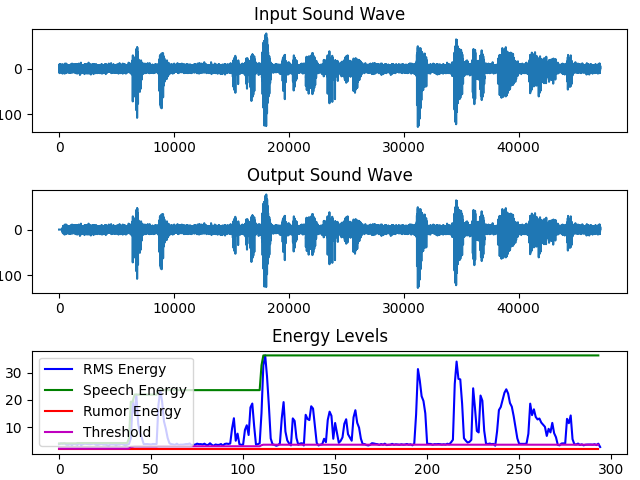
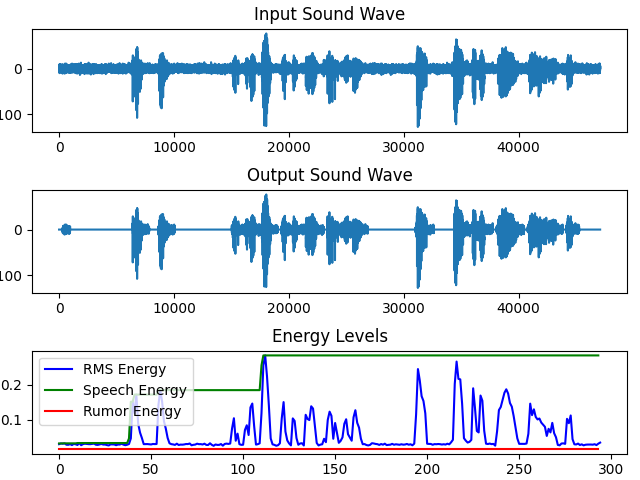
Fix Working VAD

diff --git a/vad.py b/vad.py
@@ -41,7 +41,7 @@ class VAD:
       """
       self.fileIndex = index
       # Input file specs
-      self.inputFileName = "input/inputaudio" + str(index) + ".data"
+      self.inputFileName =  f'input/inputaudio{str(index)}.data'
       # Output file specs
       self.outputFileName = "output/outputVAD" + str(index) + ".data"
       
@@ -49,13 +49,21 @@ class VAD:
       if not os.path.isfile(self.inputFileName):
          sys.exit("Error: "+ self.inputFileName + " file does not exists on the current directory!")
 
+      # save original sound wave
+      with open(self.inputFileName, "rb") as file:
+         self.originalDataByte = bytearray(file.read())
+      
       # read bytes from inputFile
       with open(self.inputFileName, "rb") as file:
          self.inputDataByte = bytearray(file.read())
       
-      # save original sound wave
-      with open(self.inputFileName, "rb") as file:
-         self.originalDataByte = bytearray(file.read())
+      # Normalize input data
+      self.outputDataDec = [] # Working data
+      self.normalizedAudio = [] # Normalized list
+      for sample in self.inputDataByte:
+         self.outputDataDec.append(np.int8(sample))# read signed int8 from byte
+         ret = float(np.int8(sample) / 128)     # normalize
+         self.normalizedAudio.append(ret)
 
       # -------------- VARIABLES  ----------------
 
@@ -63,6 +71,7 @@ class VAD:
       self.PACKET_SIZE = 160
       self.NUM_PACKETS = int(ceil(len(self.inputDataByte) / self.PACKET_SIZE))
 
+      # Util plot lists
       # Root Mean Square Energy = sqrt(1/n * sum with i=[0, n] of x^2(i))
       self.signals_rmse = []
       self.signals_speech_energy = []
@@ -84,19 +93,19 @@ class VAD:
       # count 4 INACTIVE SAMPLES before clipping packet
       self.MAX_INACTIVE_SAMPLES = 4
       self.INACTIVE_SAMPLES = self.MAX_INACTIVE_SAMPLES
- 
+
    # compute Root Mean Square Energy of sample
-   # tested: OK
    def __computeRMSE(self, startIndex):
       energySum = 0
-      # compute sum of energy of packet
+      totalPacket = 0
       for sampleIndex in range(startIndex, startIndex + self.PACKET_SIZE):
-         if sampleIndex < len(self.inputDataByte):
-            energySum += np.int8(self.inputDataByte[sampleIndex]) ** 2
-      rmse = (energySum / self.PACKET_SIZE) ** 0.5
+         if sampleIndex < len(self.normalizedAudio): # check for samples of last packet
+            energySum += self.normalizedAudio[sampleIndex] ** 2
+            totalPacket += 1
+      rmse = (energySum / totalPacket) ** 0.5
       return rmse
 
-   # Threshold = ((1 - lambda) * Emax) + (lambda * Emin)
+   # Threshold = ((1 - lambda) * self.SPEECH_ENERGY) + (lambda * self.RUMOR_ENERGY)
    def __updateThreshold(self):
       tmp = ((1 - self.LAMBDA) * self.SPEECH_ENERGY) + (self.LAMBDA * self.RUMOR_ENERGY)
       if tmp < 0.05:
@@ -114,12 +123,11 @@ class VAD:
    def __increaseRumor(self, index):
       self.RUMOR_ENERGY = self.RUMOR_ENERGY * (1.001 ** index)
 
-   # replace Packet with 0s in self.inputDataByte
-   # tested: OK
+   # replace Packet with 0s in self.normalizedAudio
    def __replacePacket(self, startIndex):
       for index in range(startIndex, startIndex + self.PACKET_SIZE):
-         if index < len(self.inputDataByte):
-            self.inputDataByte[index] = np.int8(0)
+         if index < len(self.outputDataDec):
+            self.outputDataDec[index] = 0
    
    # compute Packet, startIndex = [0, 160, 320, ...]
    def __computePacket(self, startIndex):
@@ -129,7 +137,7 @@ class VAD:
       
       if rmse > self.SPEECH_ENERGY:
          self.SPEECH_ENERGY = rmse
-      elif rmse < self.RUMOR_ENERGY:
+      if rmse < self.RUMOR_ENERGY:
          if rmse == 0:
             self.RUMOR_ENERGY = self.INIT_RUMOR_ENERGY
          else:
@@ -141,7 +149,6 @@ class VAD:
       # save data for plot
       self.signals_speech_energy.append(self.SPEECH_ENERGY)
       self.signals_rumor_energy.append(self.RUMOR_ENERGY)
-      self.signals_threshold.append(self.THRESHOLD)
 
       # if rmse > threshold it is voice, reset inactive_samples count
       if rmse > self.THRESHOLD:
@@ -154,14 +161,14 @@ class VAD:
          # clip
          else:
             self.__replacePacket(startIndex)
-            self.INACTIVE_SAMPLES = self.MAX_INACTIVE_SAMPLES
       
       self.__increaseRumor(ceil(startIndex % self.PACKET_SIZE))
       
    # Create outputVADN.data file where supprex packets are replaced by sequences of zeros of the same length
    def __writeOutput(self):
       print("4) Write output to "+str(self.outputFileName) + "\n")
-      np.array(self.inputDataByte, dtype=np.int8).astype(np.int8).tofile(self.outputFileName)
+      self.outputData = np.array(self.outputDataDec, dtype=np.int8).astype(np.int8)
+      self.outputData.tofile(self.outputFileName)
 
    # plot soundwave and energy levels of input signal
    def __plot(self):
@@ -179,17 +186,17 @@ class VAD:
       plot_a.title.set_text('Input Sound Wave')
 
       # plot output sound wave
-      sig = np.frombuffer(self.inputDataByte, dtype=np.int8)
       plot_b = fig.add_subplot(gs[1,0]) # row 1 col 0
-      plot_b.set_ylabel('energy')
+      sig = np.frombuffer(self.outputData, dtype=np.int8)
       plot_b.plot(sig)
+      plot_b.set_ylabel('energy')
       plot_b.title.set_text('Output Sound Wave')
 
+      # plot Energy levels
       plot_c = fig.add_subplot(gs[2,0]) # row 2 col 0
       plot_c.plot(self.signals_rmse, color="b", label='RMS Energy')
       plot_c.plot(self.signals_speech_energy, color="g", label='Speech Energy')
       plot_c.plot(self.signals_rumor_energy, color="r", label='Rumor Energy')
-      plot_c.plot(self.signals_threshold, color="m", label='Threshold')
       plot_c.legend(loc="upper left")
       plot_c.set_ylabel('energy')
       plot_c.title.set_text('Energy Levels')
@@ -209,7 +216,7 @@ class VAD:
          index (:obj:`int`): `index` specify from which inputaudio<index>.data file to read from input.
       """
       print("1) Analyze file "+str(self.inputFileName) + "\n")
-      
+
       # iterate over the first 2 packets to find energy levels and threshold of the background noise
       print("2) Analyze first 40ms to recognize background noise\n")
       maxIndex = self.PACKET_SIZE * 2   # 160 * 2 = 320 samples = 40 ms in the time domain
@@ -221,7 +228,7 @@ class VAD:
       # update values
       self.SPEECH_ENERGY = max(self.signals_rmse)
       if self.SPEECH_ENERGY == 0:
-         self.SPEECH_ENERGY = 10e-7
+         self.SPEECH_ENERGY = 10e-6
       self.INIT_RUMOR_ENERGY = self.SPEECH_ENERGY / (1 + self.LAMBDA)
       self.RUMOR_ENERGY = self.INIT_RUMOR_ENERGY
 
@@ -230,7 +237,6 @@ class VAD:
       # save data for plot
       self.signals_speech_energy.append(self.SPEECH_ENERGY)
       self.signals_rumor_energy.append(self.RUMOR_ENERGY)
-      self.signals_threshold.append(self.THRESHOLD)
 
       # iterate over all frames that are complete
       print("3) Analyze the rest of the sequence\n")
